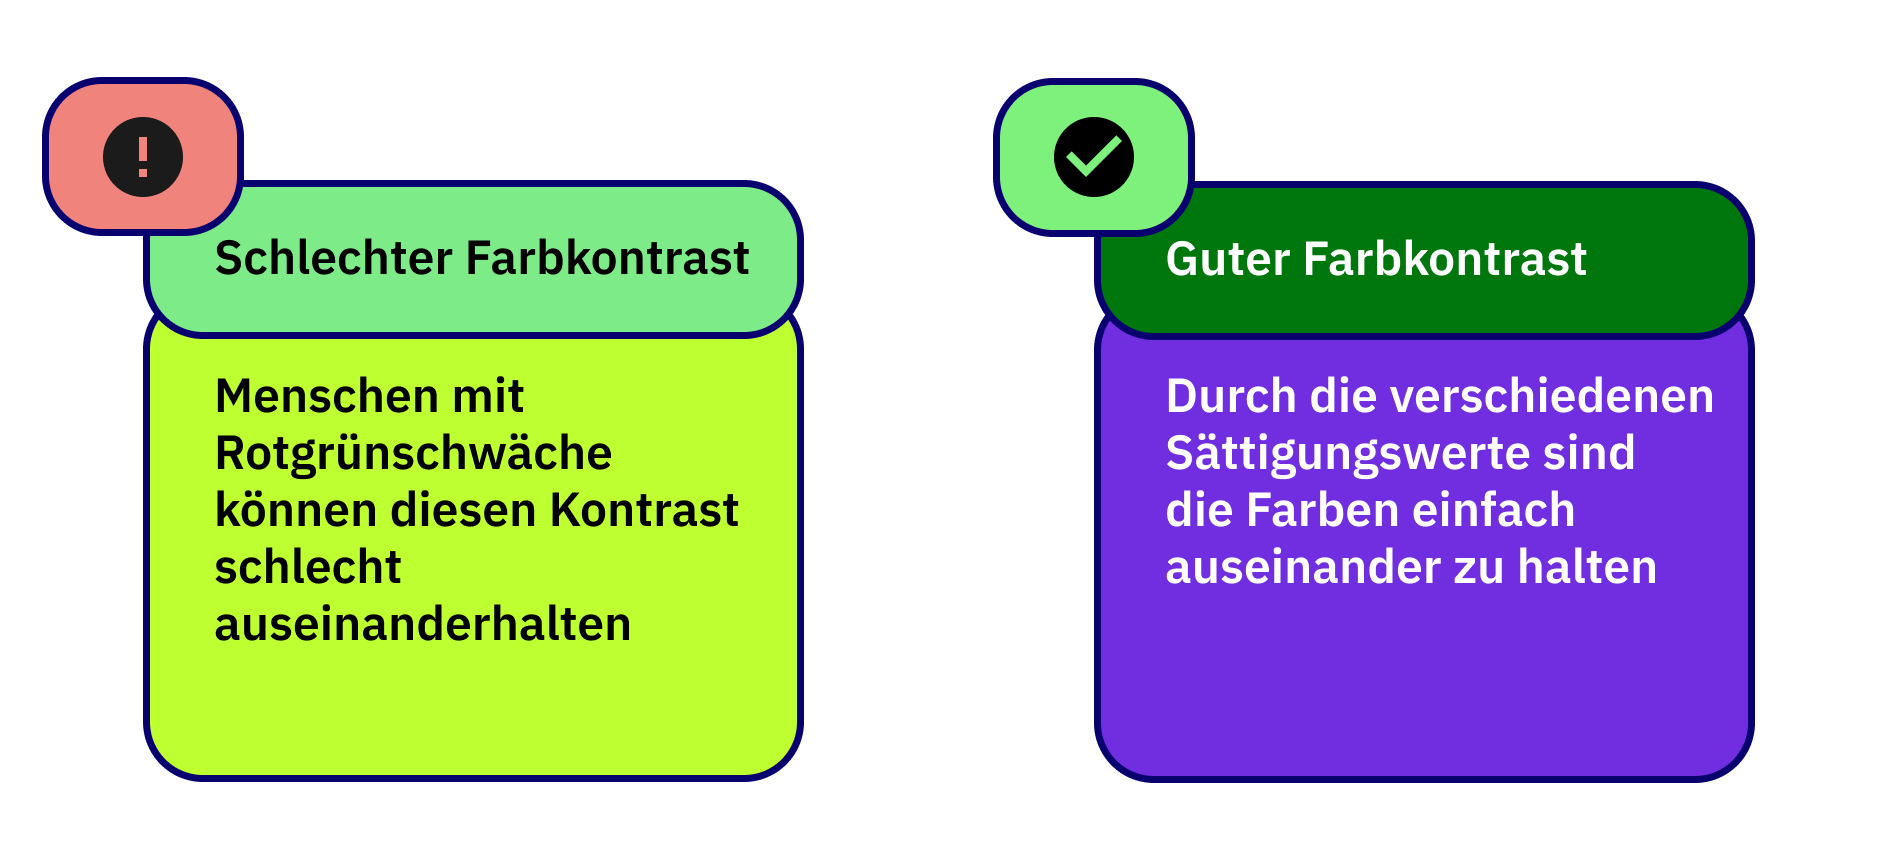
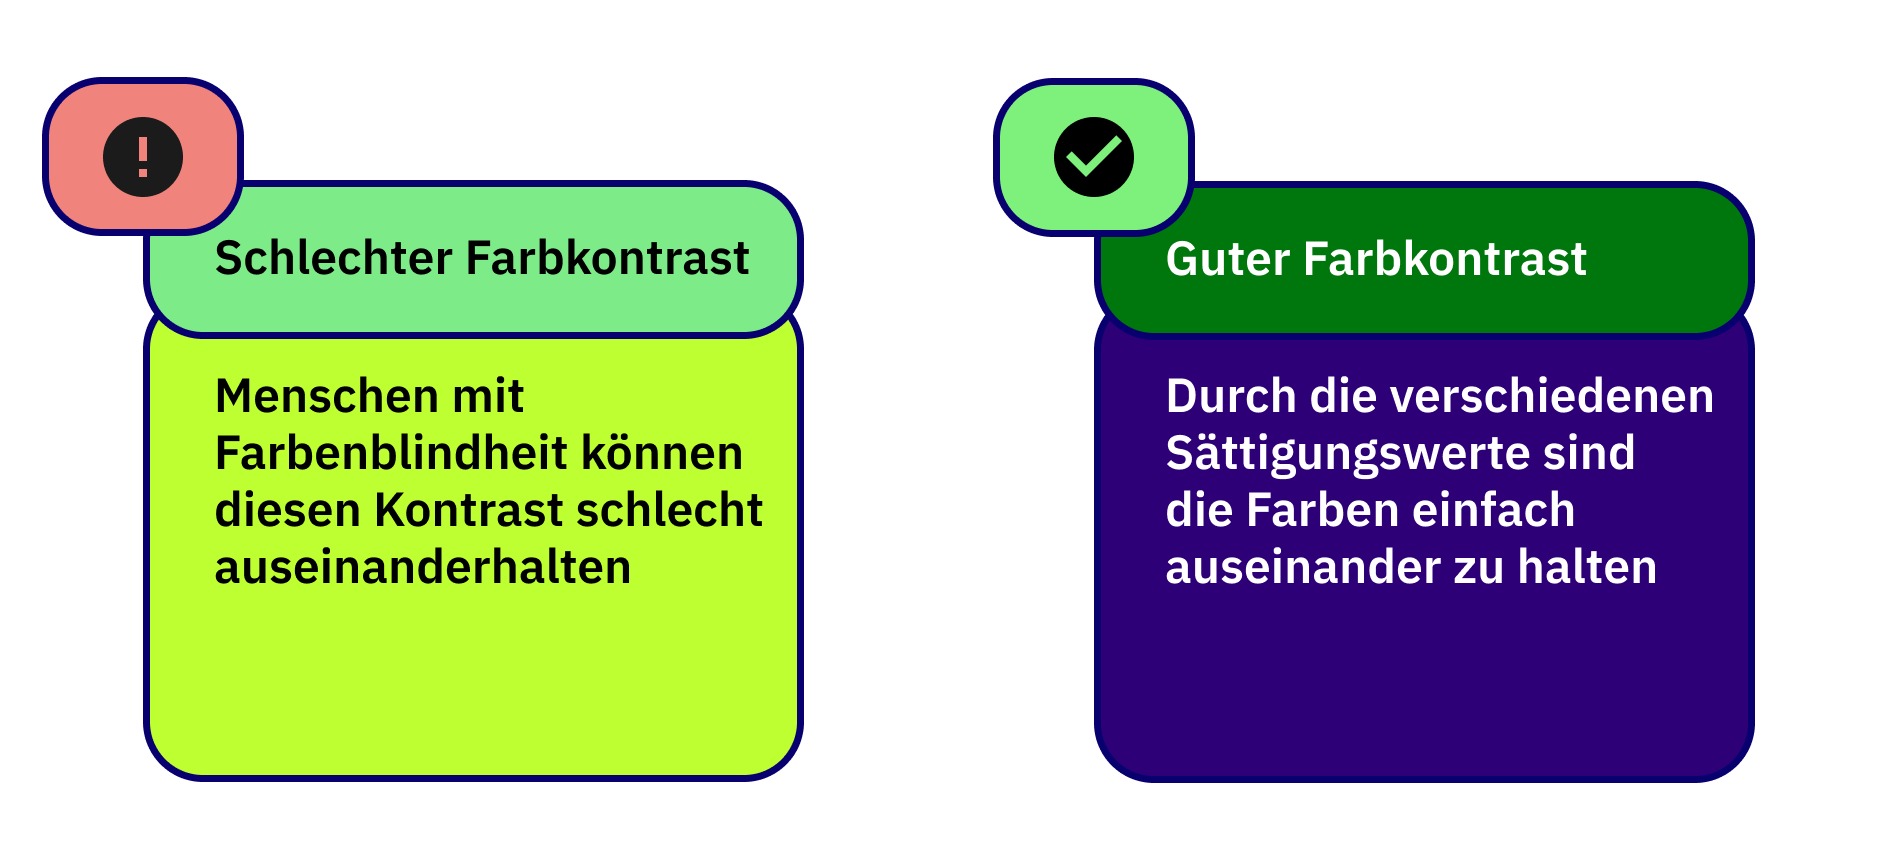
Farben

Changed region(s): [[0.5601, 0.3619, 0.9335, 0.9049], [0.0934, 0.4826, 0.4045, 0.7541]]

diff --git a/portfolio/src/pages/Farben.vue b/portfolio/src/pages/Farben.vue
@@ -33,11 +33,12 @@
                 </li>
             </ul>
         </section>
-        <section>
+        <section id="section3">
            
             <h2>Farben</h2>
-             <img src="../../content/Farbe3.png" alt="Abb1: Schlechter Farbkontrast, es werden sehr Ähnliche Grüntöne benutzt. Abb2: Es werden Farben benutzt die sich in der Sättigung stärker unterscheiden">
-            <p>Bei Farben ist es wichtig, dass sie auch für Menschen mit einer Farbenblindheit unterscheidbar sind.  Das heißt dass ZB Grün und Rottöne trotz der Farbenblindheitblindheit unterscheidbar sind.</p>
+            <img src="../../content/Farbe3.png" alt="Abb1: Schlechter Farbkontrast, es werden sehr Ähnliche Grüntöne benutzt. Abb2: Es werden Farben benutzt die sich in der Sättigung stärker unterscheiden">
+            <img src="../../content/Farbe4.png" alt="">
+             <p>Bei Farben ist es wichtig, dass sie auch für Menschen mit einer Farbenblindheit unterscheidbar sind.  Das heißt dass ZB Grün und Rottöne trotz der Farbenblindheitblindheit unterscheidbar sind.</p>
         </section>
     </article>
 </main>    
@@ -52,7 +53,6 @@
         justify-content: center;
         flex-direction: column;
         width: 100vw;
-        
     }
 
     p {
@@ -69,6 +69,7 @@
 
     h3 {
         margin-top: 20px;
+        margin-bottom: 30px;
     }
 
     ul {
@@ -82,5 +83,12 @@
     img {
         border-radius: 10px;
         border: 2px solid #101010;
+        width:700px;
+    }
+
+    section{
+        display: flex;
+        flex-direction: column;
+        gap: 10px;
     }
 </style>

diff --git a/portfolio/src/style.css b/portfolio/src/style.css
@@ -40,6 +40,9 @@ a:hover {
   margin:0;
   color: #535bf2;
 }
+main{
+  padding-bottom:40px;
+}
 
 body {
   margin: 0;
